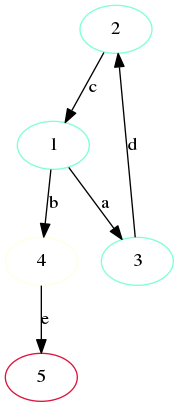
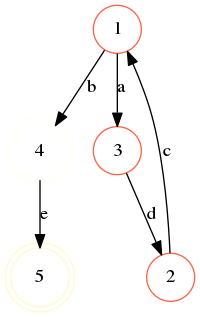
commit

diff --git a/des.py b/des.py
@@ -7,12 +7,14 @@ import linecache
 
 
 class des:
-    def __init__(self, inc_matrix, label):        
+    def __init__(self, inc_matrix, label, marked):        
         self.inc_matrix = inc_matrix
         self.label = label
+        self.marked = marked
+
         self.automate = self.define_des()
         self.generate_figure(self.automate)
-
+        
         #deepth-first search
         self.time = 0
         self.color = []
@@ -22,12 +24,21 @@ class des:
         return self.label + '\n'  + str(self.inc_matrix)
 
     def generate_figure(self, G,sufix='', layout='dot'):                
-        A = to_agraph(G) 
+        A = to_agraph(G)
+        A.node_attr['shape']='circle'
+        for mark in self.marked:
+            m = A.get_node(mark)
+            m.attr['shape'] = 'doublecircle'
         A.layout(layout)                                                                 
         A.draw(self.label + sufix + '.png')
     
     def generate_strongly_figure(self,strongList,layout='dot'):
         A = to_agraph(self.automate) 
+        A.node_attr['shape']='circle'
+
+        for mark in self.marked:
+            m = A.get_node(mark)
+            m.attr['shape'] = 'doublecircle'            
         for con in strongList:
             color = linecache.getline('color_list.txt', randint(1, 129))[:-1]
             for v in con:
@@ -135,9 +146,13 @@ class des:
         for i in range(len(n_time)):
             mapping[str(i+1)] = str(i+1) + '('+ n_time[i] +')'
         
+        marked_bckp = self.marked[:]
+        for j in range(len(self.marked)):
+            self.marked[j] = mapping[self.marked[j]]  
+        
         G_dfs = nx.relabel_nodes(self.automate, mapping)
         self.generate_figure(G=G_dfs, sufix='_dfs')
-
+        self.marked = marked_bckp[:]
         r = (G_dfs, n_time)
         return r
 
@@ -148,14 +163,20 @@ class des:
         for n in r[1]:
             top.append(n[n.index('/')+1:])
         
-        sort = top[:]
-        sort.sort(reverse=True)
+        s = top[:]
+        s.sort()
+
+        marked = self.marked
 
         corresp = {}
-        for i in range(len(sort)):
-            k = top.index(sort[i])
+        for i in range(len(s)):
+            k = top.index(s[i])
             corresp[str(i+1)] = str(k+1)
-        
+
+        rev_corresp = inv_map = {v: k for k, v in corresp.items()}
+        for j in range(len(marked)):
+            marked[j] = rev_corresp[marked[j]]
+
         keys = [k for k in corresp.keys()]
         
         keys.sort()
@@ -168,7 +189,7 @@ class des:
             
             new_inc_matrix.append(new_row)
         
-        G_topsorted = des(new_inc_matrix, 'G_topsorted')
+        G_topsorted = des(new_inc_matrix, 'G_topsorted', marked)
         return G_topsorted
 
     def strongly_connected(self):

diff --git a/aux_functions.py b/aux_functions.py
@@ -3,11 +3,14 @@ from des import *
 def load_input():
         with open('input.txt', 'r') as myfile:
             input = myfile.read()
-        return parse2des(input)
+        with open('marked_states.txt', 'r') as myfile:
+            marked = myfile.read()
+        return parse2des(input, marked)
 
-def parse2des(input):
+def parse2des(input, marked):
     #Parsing incidence matrix
     gg = input.split("\n\n-\n\n")
+    mm = get_marked(marked)
     des_list = []
 
     for g in gg:        
@@ -19,6 +22,15 @@ def parse2des(input):
                 label = line[:-1]
                 continue
             inc_matrix.append(line.strip().split(";"))
-        G = des(inc_matrix, label)
+        G = des(inc_matrix, label, mm[label])
         des_list.append(G)
     return des_list
+
+def get_marked(marked):
+    mm = marked.split("\n")
+    m_dict = {}
+    for m in mm:
+        label = m[:m.find(":")]
+        mar = [s for s in m[m.find(":")+1:].split(",")]
+        m_dict[label] = mar
+    return m_dict
